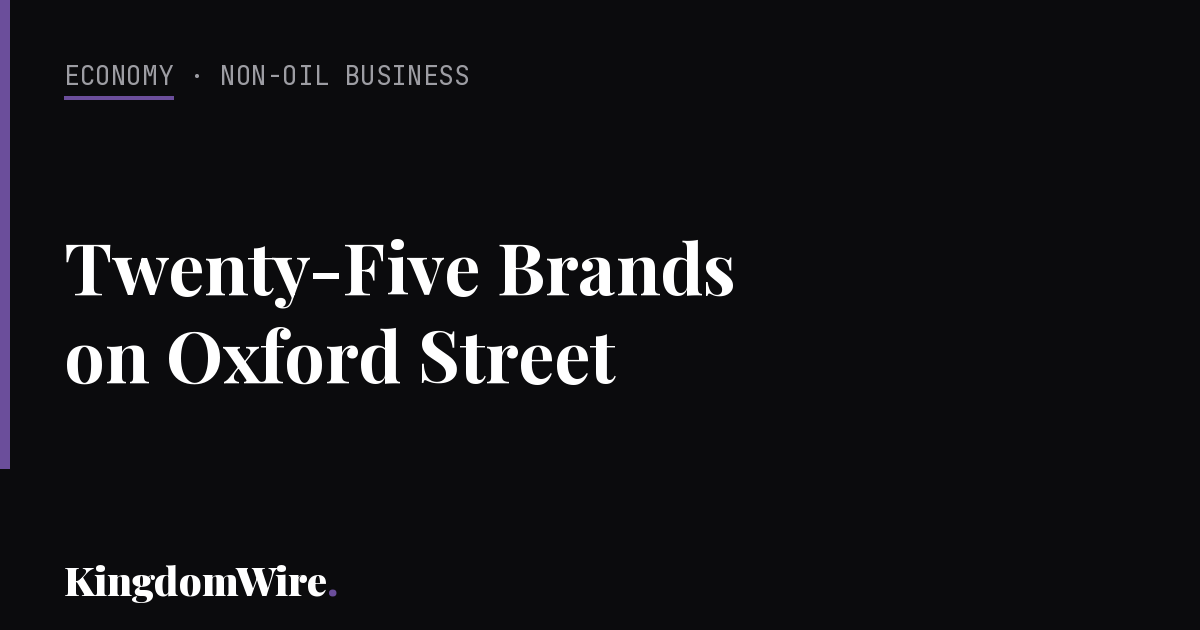
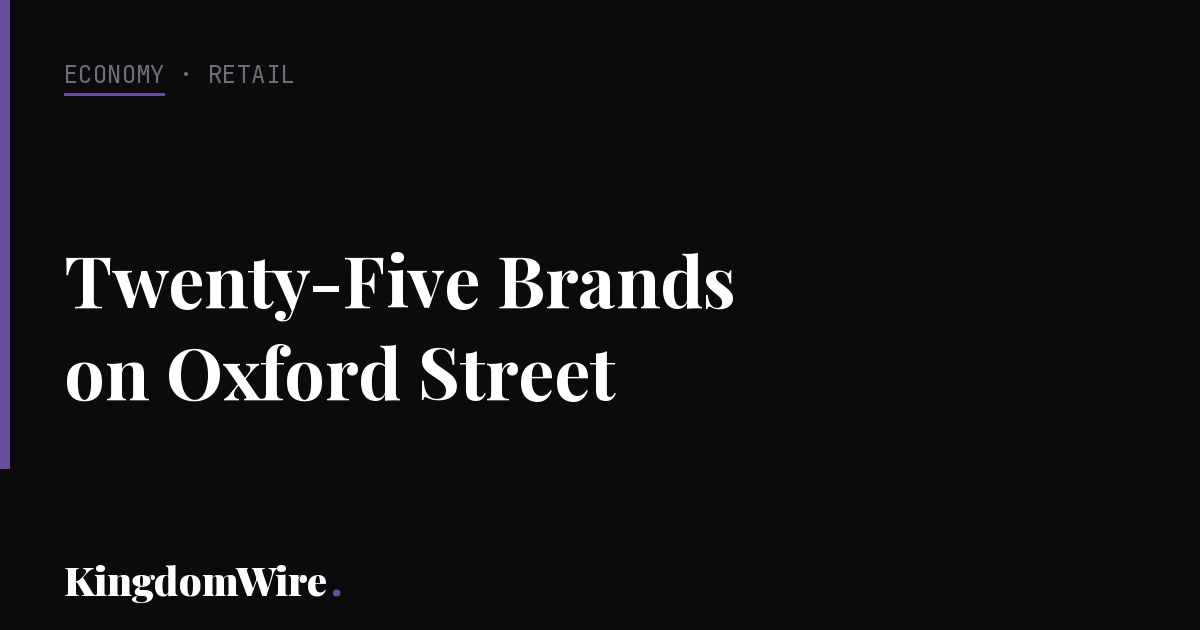
Relabel Non-Oil Business category to Retail site-wide (publisher directive)
Internal taxonomy must never appear as public labels; sector names only.

Claude-Session: https://claude.ai/code/session_012TaS8Nojo1XzNuioftCSb9

Changed region(s): [[0.0308, 0.3619, 0.6167, 0.6333], [0.0617, 0.0905, 0.4008, 0.181]]

diff --git a/economy.html b/economy.html
@@ -211,7 +211,7 @@ img { display: block; width: 100%; }
     <h1 class="section-page-title">Economy</h1>
     <p class="section-page-desc">Saudi economic developments, investment, Vision 2030 progress, and private sector news.</p>
   </div>
-  <div class="article-list"><a href="selfridges-milaf.html" style="text-decoration:none;display:block"><div class="article-list-item"><div class="ali-art"><img src="assets/thumb/culture.jpg" alt=""/></div><div><div class="ali-cat">Economy · Non-Oil Business</div><div class="ali-title">Twenty-Five Brands on Oxford Street</div><p class="ali-deck">A PIF company has placed more than 25 Saudi brands inside Selfridges for six weeks. The showcase tests which Saudi consumer products can hold a foreign shelf at full price.</p><div class="ali-meta">31 Jul 2026 · 4 min</div></div><div class="ali-date">31 Jul 2026</div></div></a><a href="jubail-waste.html" style="text-decoration:none;display:block"><div class="article-list-item"><div class="ali-art"><img src="assets/thumb/environment.jpg" alt=""/></div><div><div class="ali-cat">Economy · Industry</div><div class="ali-title">Jubail Closes the Loop</div><p class="ali-deck">Veolia's Tahwil plant treats up to 121,000 tonnes of hazardous waste a year in PlasChem Park and returns the heat as steam. Disposal capacity reads as an environmental story and functions as industrial recruitment.</p><div class="ali-meta">31 Jul 2026 · 4 min</div></div><div class="ali-date">31 Jul 2026</div></div></a><a href="asir-grape-farms.html" style="text-decoration:none;display:block"><div class="article-list-item"><div class="ali-art"><img src="assets/thumb/asir.jpg" alt=""/></div><div><div class="ali-cat">Economy · Agriculture</div><div class="ali-title">The Vineyards of Asir</div><p class="ali-deck">More than 500 farms and 1,000 tonnes a year: the production system behind the highland grape harvest.</p><div class="ali-meta">29 Jul 2026 · 4 min</div></div><div class="ali-date">29 Jul 2026</div></div></a><a href="hormuz-rejection.html" style="text-decoration:none;display:block"><div class="article-list-item"><div class="ali-art"><img src="assets/thumb/markets.jpg" alt=""/></div><div><div class="ali-cat">Economy · Markets</div><div class="ali-title">The Discount Lasted Three Sessions</div><p class="ali-deck">Brent recovered most of a 14 percent slide within hours of Tehran ruling out the Omani plan for Hormuz. For the Kingdom, the week's numbers land in three ledgers: the price of its crude, the insurability of its shipping, and a repair date at Jizan.</p><div class="ali-meta">29 Jul 2026 · 4 min</div></div><div class="ali-date">29 Jul 2026</div></div></a><a href="hormuz-fees.html" style="text-decoration:none;display:block"><div class="article-list-item"><div class="ali-art"><img src="assets/thumb/maritime.jpg" alt=""/></div><div><div class="ali-cat">Economy · Diplomacy</div><div class="ali-title">Voluntary by Design</div><p class="ali-deck">Oman presents Iran with a Gulf-backed plan to reopen Hormuz under joint management, funded by voluntary contributions on the Malacca model. A voluntary fee can be insured. A toll cannot.</p><div class="ali-meta">28 Jul 2026 · 5 min</div></div><div class="ali-date">28 Jul 2026</div></div></a><a href="price-and-passage.html" style="text-decoration:none;display:block"><div class="article-list-item"><div class="ali-art"><img src="assets/thumb/markets.jpg" alt=""/></div><div><div class="ali-cat">Economy · Markets</div><div class="ali-title">Cheaper Barrel, Emptier Corridor</div><p class="ali-deck">Brent fell as much as 7 percent as the US-Iran pause held, while eleven vessels moved through Bab el-Mandeb, the fewest in months. The futures market is pricing the diplomacy. The water is still pricing the war.</p><div class="ali-meta">27 Jul 2026 · 5 min</div></div><div class="ali-date">27 Jul 2026</div></div></a><a href="saudi-touchpoints.html" style="text-decoration:none;display:block"><div class="article-list-item"><div class="ali-art"><img src="assets/thumb/maritime.jpg" alt=""/></div><div><div class="ali-cat">Economy · Markets</div><div class="ali-title">The Exclusion Travels With the Ship</div><p class="ali-deck">Lloyd's market underwriters are moving from pricing Saudi voyages to excluding them. The touchpoint standard reaches further than a missile can fly.</p><div class="ali-meta">26 Jul 2026 · 4 min</div></div><div class="ali-date">26 Jul 2026</div></div></a><a href="red-sea-insurance.html" style="text-decoration:none;display:block"><div class="article-list-item"><div class="ali-art"><img src="assets/thumb/markets.jpg" alt=""/></div><div><div class="ali-cat">Economy · Markets</div><div class="ali-title">The Blockade Has a Price List</div><p class="ali-deck">War risk premiums run from 0.1 percent at Yanbu to 3 percent off Jizan. Underwriters have priced a partial blockade.</p><div class="ali-meta">24 Jul 2026 · 4 min</div></div><div class="ali-date">24 Jul 2026</div></div></a><a href="riyadh-air-fleet.html" style="text-decoration:none;display:block"><div class="article-list-item"><div class="ali-art"><img src="assets/thumb/aviation.jpg" alt=""/></div><div><div class="ali-cat">Economy · Aviation</div><div class="ali-title">Riyadh Air Adds 34 Boeing and Airbus Aircraft to Its Fleet Plan</div><p class="ali-deck">The hard commitment in aviation, made through a regional conflict.</p><div class="ali-meta">20 Jul 2026</div></div><div class="ali-date">20 Jul 2026</div></div></a><a href="national-parks-investment.html" style="text-decoration:none;display:block"><div class="article-list-item"><div class="ali-art"><img src="assets/thumb/tourism.jpg" alt=""/></div><div><div class="ali-cat">Economy · Tourism</div><div class="ali-title">Saudi Arabia Opens National Parks to Private Investment</div><p class="ali-deck">Eco-tourism and conservation, on the state-defines, private-operates model.</p><div class="ali-meta">20 Jul 2026</div></div><div class="ali-date">20 Jul 2026</div></div></a><a href="foreign-inflows.html" style="text-decoration:none;display:block"><div class="article-list-item"><div class="ali-art"><img src="assets/thumb/markets.jpg" alt=""/></div><div><div class="ali-cat">Economy · Markets</div><div class="ali-title">Foreign Investors Direct $1.6 Billion into Saudi Stocks</div><p class="ali-deck">The only GCC market with net foreign buying in the second quarter of 2026.</p><div class="ali-meta">19 Jul 2026</div></div><div class="ali-date">19 Jul 2026</div></div></a><a href="real-estate-transactions.html" style="text-decoration:none;display:block"><div class="article-list-item"><div class="ali-art"><img src="assets/thumb/infrastructure.jpg" alt=""/></div><div><div class="ali-cat">Economy · Real Estate</div><div class="ali-title">Saudi Real Estate Transactions Reach SR1.6 Trillion in Three Years</div><p class="ali-deck">117,691 licensed brokers and 1.11 million recorded contracts since the Brokerage Law.</p><div class="ali-meta">19 Jul 2026</div></div><div class="ali-date">19 Jul 2026</div></div></a><a href="homeownership-index.html" style="text-decoration:none;display:block"><div class="article-list-item"><div class="ali-art"><img src="assets/thumb/housing.jpg" alt=""/></div><div><div class="ali-cat">Economy · Housing</div><div class="ali-title">First National Homeownership Readiness Index Announced</div><p class="ali-deck">A quarterly measure of the demand side of the housing program.</p><div class="ali-meta">19 Jul 2026</div></div><div class="ali-date">19 Jul 2026</div></div></a><a href="fitch-a-plus.html" style="text-decoration:none;display:block">
+  <div class="article-list"><a href="selfridges-milaf.html" style="text-decoration:none;display:block"><div class="article-list-item"><div class="ali-art"><img src="assets/thumb/culture.jpg" alt=""/></div><div><div class="ali-cat">Economy · Retail</div><div class="ali-title">Twenty-Five Brands on Oxford Street</div><p class="ali-deck">A PIF company has placed more than 25 Saudi brands inside Selfridges for six weeks. The showcase tests which Saudi consumer products can hold a foreign shelf at full price.</p><div class="ali-meta">31 Jul 2026 · 4 min</div></div><div class="ali-date">31 Jul 2026</div></div></a><a href="jubail-waste.html" style="text-decoration:none;display:block"><div class="article-list-item"><div class="ali-art"><img src="assets/thumb/environment.jpg" alt=""/></div><div><div class="ali-cat">Economy · Industry</div><div class="ali-title">Jubail Closes the Loop</div><p class="ali-deck">Veolia's Tahwil plant treats up to 121,000 tonnes of hazardous waste a year in PlasChem Park and returns the heat as steam. Disposal capacity reads as an environmental story and functions as industrial recruitment.</p><div class="ali-meta">31 Jul 2026 · 4 min</div></div><div class="ali-date">31 Jul 2026</div></div></a><a href="asir-grape-farms.html" style="text-decoration:none;display:block"><div class="article-list-item"><div class="ali-art"><img src="assets/thumb/asir.jpg" alt=""/></div><div><div class="ali-cat">Economy · Agriculture</div><div class="ali-title">The Vineyards of Asir</div><p class="ali-deck">More than 500 farms and 1,000 tonnes a year: the production system behind the highland grape harvest.</p><div class="ali-meta">29 Jul 2026 · 4 min</div></div><div class="ali-date">29 Jul 2026</div></div></a><a href="hormuz-rejection.html" style="text-decoration:none;display:block"><div class="article-list-item"><div class="ali-art"><img src="assets/thumb/markets.jpg" alt=""/></div><div><div class="ali-cat">Economy · Markets</div><div class="ali-title">The Discount Lasted Three Sessions</div><p class="ali-deck">Brent recovered most of a 14 percent slide within hours of Tehran ruling out the Omani plan for Hormuz. For the Kingdom, the week's numbers land in three ledgers: the price of its crude, the insurability of its shipping, and a repair date at Jizan.</p><div class="ali-meta">29 Jul 2026 · 4 min</div></div><div class="ali-date">29 Jul 2026</div></div></a><a href="hormuz-fees.html" style="text-decoration:none;display:block"><div class="article-list-item"><div class="ali-art"><img src="assets/thumb/maritime.jpg" alt=""/></div><div><div class="ali-cat">Economy · Diplomacy</div><div class="ali-title">Voluntary by Design</div><p class="ali-deck">Oman presents Iran with a Gulf-backed plan to reopen Hormuz under joint management, funded by voluntary contributions on the Malacca model. A voluntary fee can be insured. A toll cannot.</p><div class="ali-meta">28 Jul 2026 · 5 min</div></div><div class="ali-date">28 Jul 2026</div></div></a><a href="price-and-passage.html" style="text-decoration:none;display:block"><div class="article-list-item"><div class="ali-art"><img src="assets/thumb/markets.jpg" alt=""/></div><div><div class="ali-cat">Economy · Markets</div><div class="ali-title">Cheaper Barrel, Emptier Corridor</div><p class="ali-deck">Brent fell as much as 7 percent as the US-Iran pause held, while eleven vessels moved through Bab el-Mandeb, the fewest in months. The futures market is pricing the diplomacy. The water is still pricing the war.</p><div class="ali-meta">27 Jul 2026 · 5 min</div></div><div class="ali-date">27 Jul 2026</div></div></a><a href="saudi-touchpoints.html" style="text-decoration:none;display:block"><div class="article-list-item"><div class="ali-art"><img src="assets/thumb/maritime.jpg" alt=""/></div><div><div class="ali-cat">Economy · Markets</div><div class="ali-title">The Exclusion Travels With the Ship</div><p class="ali-deck">Lloyd's market underwriters are moving from pricing Saudi voyages to excluding them. The touchpoint standard reaches further than a missile can fly.</p><div class="ali-meta">26 Jul 2026 · 4 min</div></div><div class="ali-date">26 Jul 2026</div></div></a><a href="red-sea-insurance.html" style="text-decoration:none;display:block"><div class="article-list-item"><div class="ali-art"><img src="assets/thumb/markets.jpg" alt=""/></div><div><div class="ali-cat">Economy · Markets</div><div class="ali-title">The Blockade Has a Price List</div><p class="ali-deck">War risk premiums run from 0.1 percent at Yanbu to 3 percent off Jizan. Underwriters have priced a partial blockade.</p><div class="ali-meta">24 Jul 2026 · 4 min</div></div><div class="ali-date">24 Jul 2026</div></div></a><a href="riyadh-air-fleet.html" style="text-decoration:none;display:block"><div class="article-list-item"><div class="ali-art"><img src="assets/thumb/aviation.jpg" alt=""/></div><div><div class="ali-cat">Economy · Aviation</div><div class="ali-title">Riyadh Air Adds 34 Boeing and Airbus Aircraft to Its Fleet Plan</div><p class="ali-deck">The hard commitment in aviation, made through a regional conflict.</p><div class="ali-meta">20 Jul 2026</div></div><div class="ali-date">20 Jul 2026</div></div></a><a href="national-parks-investment.html" style="text-decoration:none;display:block"><div class="article-list-item"><div class="ali-art"><img src="assets/thumb/tourism.jpg" alt=""/></div><div><div class="ali-cat">Economy · Tourism</div><div class="ali-title">Saudi Arabia Opens National Parks to Private Investment</div><p class="ali-deck">Eco-tourism and conservation, on the state-defines, private-operates model.</p><div class="ali-meta">20 Jul 2026</div></div><div class="ali-date">20 Jul 2026</div></div></a><a href="foreign-inflows.html" style="text-decoration:none;display:block"><div class="article-list-item"><div class="ali-art"><img src="assets/thumb/markets.jpg" alt=""/></div><div><div class="ali-cat">Economy · Markets</div><div class="ali-title">Foreign Investors Direct $1.6 Billion into Saudi Stocks</div><p class="ali-deck">The only GCC market with net foreign buying in the second quarter of 2026.</p><div class="ali-meta">19 Jul 2026</div></div><div class="ali-date">19 Jul 2026</div></div></a><a href="real-estate-transactions.html" style="text-decoration:none;display:block"><div class="article-list-item"><div class="ali-art"><img src="assets/thumb/infrastructure.jpg" alt=""/></div><div><div class="ali-cat">Economy · Real Estate</div><div class="ali-title">Saudi Real Estate Transactions Reach SR1.6 Trillion in Three Years</div><p class="ali-deck">117,691 licensed brokers and 1.11 million recorded contracts since the Brokerage Law.</p><div class="ali-meta">19 Jul 2026</div></div><div class="ali-date">19 Jul 2026</div></div></a><a href="homeownership-index.html" style="text-decoration:none;display:block"><div class="article-list-item"><div class="ali-art"><img src="assets/thumb/housing.jpg" alt=""/></div><div><div class="ali-cat">Economy · Housing</div><div class="ali-title">First National Homeownership Readiness Index Announced</div><p class="ali-deck">A quarterly measure of the demand side of the housing program.</p><div class="ali-meta">19 Jul 2026</div></div><div class="ali-date">19 Jul 2026</div></div></a><a href="fitch-a-plus.html" style="text-decoration:none;display:block">
       <div class="article-list-item"><div class="ali-art"><img src="assets/thumb/finance.jpg" alt=""/></div>
         <div>
           <div class="ali-cat">Economy · Sovereign Ratings</div>

diff --git a/selfridges-milaf.html b/selfridges-milaf.html
@@ -3,9 +3,9 @@
 <head>
   <meta charset="UTF-8"/><meta name="viewport" content="width=device-width,initial-scale=1.0"/>
   <title>Twenty-Five Brands on Oxford Street | KingdomWire</title>
-  <meta name="description" content="A PIF company has placed more than 25 Saudi brands inside Selfridges for six weeks. The showcase is a screening mechanism: it tests which Saudi consumer products can hold a foreign shelf at full price."/>
+  <meta name="description" content="Economy · Retail"/>
   <meta property="og:title" content="The Second Sortie Was Diplomatic | KingdomWire"/>
-  <meta property="og:description" content="A PIF company has placed more than 25 Saudi brands inside Selfridges for six weeks. The showcase is a screening mechanism: it tests which Saudi consumer products can hold a foreign shelf at full price."/>
+  <meta property="og:description" content="Economy · Retail"/>
   <meta property="og:type" content="article"/>
   <meta property="og:url" content="https://kingdomwire.net/selfridges-milaf.html"/>
   <meta property="og:site_name" content="KingdomWire"/>
@@ -199,5 +199,5 @@ img { display: block; width: 100%; }
 </head>
 <body>
 <header class="masthead"><div class="masthead-inner"><div class="masthead-top"><div class="logo"><div class="logo-wordmark"><a href="index.html">KingdomWire<span class="logo-dot">.</span></a></div><div class="logo-rule"><div class="logo-rule-line"></div><div class="logo-tagline">Saudi Arabia · In Depth · In English</div><div class="logo-rule-line"></div></div></div></div><nav class="nav"><div class="nav-inner"><a href="index.html">Latest</a><a href="policy.html">Policy</a><a href="economy.html" class="active">Economy</a><a href="society.html">Society</a><a href="on-the-record.html">On the Record</a><a href="analysis.html">Analysis</a><a href="archive.html">Archive</a><a href="about.html">About</a><a href="search.html">Search</a></div></nav></div></header>
-<main><div class="container" style="padding-top:40px;padding-bottom:60px"><div class="article-layout"><article><header class="article-header"><div class="article-eyebrow">Economy &middot; Non-Oil Business</div><h1 class="article-title">Twenty-Five Brands on Oxford Street</h1><p class="article-deck">Milaf Global, a Public Investment Fund company, has placed more than 25 Saudi brands inside Selfridges in London for six weeks. The sales matter less than the selections: the showcase tests which Saudi consumer products can hold a foreign shelf at full price.</p><div class="article-meta"><span class="tag">Retail</span><span>31 July 2026</span><span>&middot;</span><span>4 min read</span><span>&middot;</span><span>KingdomWire</span></div><figure class="article-art" style="margin:26px 0 0"><img src="assets/img/culture.jpg" alt="" style="height:230px;object-fit:cover;border:1px solid var(--rule);border-top:3px solid var(--accent)"/><figcaption style="display:flex;justify-content:space-between;gap:12px;padding:7px 2px 0;font-family:'JetBrains Mono',monospace;font-size:.52rem;letter-spacing:.08em;color:var(--lg);text-transform:uppercase"><span style="color:var(--accent)">&#9670; Non-Oil Business &middot; London</span><span>Photo: xiquinhosilva &middot; CC BY 2.0 &middot; Wikimedia</span></figcaption></figure></header><div class="article-body"><p>For six weeks, the Corner Shop window at 400 Oxford Street belongs to Saudi brands. "Saudi: Sky's The Limit," which opened 27 July and runs to 5 September, places more than 25 companies inside Selfridges, the London department store where a window is an audition. Milaf Global, the Public Investment Fund company behind the showcase, selected the participants against four criteria: product quality, brand distinctiveness, readiness for international expansion, and the ability to represent Saudi identity abroad. That last pairing, export readiness and identity, is the actual experiment.</p><p>The roster runs across categories rather than concentrating in one: the streetwear label 1886, Artfeena in homeware, Assaf fragrances, the jeweller Jeed, Kayanee in wellness, the baker L&acirc;m, with food, beauty and lifestyle names alongside. Bandar Al-Qahtani, Milaf Global's chief executive, framed the venture in portfolio terms: "Our success is not measured only by the growth of our group companies, but also by the opportunities we create for our private-sector partners and Saudi entrepreneurs." Judd Crane, Selfridges' executive buying and brand director, said the collaboration lets customers "discover Saudi brands that reflect creativity, quality and innovation."</p><h2>What the Fund Is Testing</h2><p>The Public Investment Fund's consumer ambitions are usually discussed at giga-project scale. This is the opposite instrument: a controlled, six-week retail test in which the fund functions less like an investor than like a trading house, aggregating small brands that could not individually win a London wholesale account and carrying them into one under its own negotiating weight. The precedent is direct. Selfridges hosted the Saudi 100 fashion pop-up in June 2025; this year's edition is larger, longer and broader than fashion, which is what a pipeline looks like when the first test clears.</p><p>The commercial information runs in both directions. For the brands, a Selfridges buyer's reorder decision in September is a judgment no domestic market signal can substitute for. For Milaf, six weeks of till data from Oxford Street is a screening mechanism: it identifies which Saudi consumer products can hold a shelf abroad at full price, before larger capital is committed to distribution. The showcase's sales matter less than its selections. A fund that learns to pick export-grade consumer brands has acquired a capability the Kingdom's non-oil growth targets quietly depend on, because commodity exports scale with capacity while brand exports scale with judgment.</p><h2>Two Calendars</h2><p>The launch week says something about how the Kingdom is running its calendar. The same days that brought chiefs of staff to Riyadh for a maritime security meeting saw Saudi confectioners and perfumers setting up displays in London. The commercial program is proceeding on its own schedule, neither accelerated for effect nor paused for events. For the small brands involved, most of them employing dozens rather than thousands, the stakes are not symbolic at all: a converted wholesale account at a store like Selfridges typically outlasts any single season's politics.</p><p>The test worth tracking comes after 5 September, when the displays come down. Pop-ups are rented visibility; wholesale accounts are earned shelf. If even a handful of the 25 convert to standing Selfridges listings, or to the European accounts that watch Selfridges to decide what to stock, Milaf will have built a repeatable export channel rather than a memorable window. Al-Qahtani has already said he hopes the initiative leads to similar partnerships elsewhere. The next city Milaf books will show whether London was a showcase or a system.</p></div></article><aside class="article-sidebar"><div class="article-sidebar-label">Related Stories</div><div class="related-item"><div class="related-cat">Economy</div><div class="related-title"><a href="asir-grape-farms.html">The Vineyards of Asir</a></div></div><div class="related-item"><div class="related-cat">Economy</div><div class="related-title"><a href="pif-strategy-2026.html">PIF Enters New Phase with 2026-2030 Strategy</a></div></div><div class="related-item"><div class="related-cat">Society</div><div class="related-title"><a href="riyadh-heritage-register.html">The Capital Enters Its Own Archive</a></div></div></aside></div></div></main>
+<main><div class="container" style="padding-top:40px;padding-bottom:60px"><div class="article-layout"><article><header class="article-header"><div class="article-eyebrow">Economy &middot; Retail</div><h1 class="article-title">Twenty-Five Brands on Oxford Street</h1><p class="article-deck">Milaf Global, a Public Investment Fund company, has placed more than 25 Saudi brands inside Selfridges in London for six weeks. The sales matter less than the selections: the showcase tests which Saudi consumer products can hold a foreign shelf at full price.</p><div class="article-meta"><span class="tag">Retail</span><span>31 July 2026</span><span>&middot;</span><span>4 min read</span><span>&middot;</span><span>KingdomWire</span></div><figure class="article-art" style="margin:26px 0 0"><img src="assets/img/culture.jpg" alt="" style="height:230px;object-fit:cover;border:1px solid var(--rule);border-top:3px solid var(--accent)"/><figcaption style="display:flex;justify-content:space-between;gap:12px;padding:7px 2px 0;font-family:'JetBrains Mono',monospace;font-size:.52rem;letter-spacing:.08em;color:var(--lg);text-transform:uppercase"><span style="color:var(--accent)">&#9670; Retail &middot; London</span><span>Photo: xiquinhosilva &middot; CC BY 2.0 &middot; Wikimedia</span></figcaption></figure></header><div class="article-body"><p>For six weeks, the Corner Shop window at 400 Oxford Street belongs to Saudi brands. "Saudi: Sky's The Limit," which opened 27 July and runs to 5 September, places more than 25 companies inside Selfridges, the London department store where a window is an audition. Milaf Global, the Public Investment Fund company behind the showcase, selected the participants against four criteria: product quality, brand distinctiveness, readiness for international expansion, and the ability to represent Saudi identity abroad. That last pairing, export readiness and identity, is the actual experiment.</p><p>The roster runs across categories rather than concentrating in one: the streetwear label 1886, Artfeena in homeware, Assaf fragrances, the jeweller Jeed, Kayanee in wellness, the baker L&acirc;m, with food, beauty and lifestyle names alongside. Bandar Al-Qahtani, Milaf Global's chief executive, framed the venture in portfolio terms: "Our success is not measured only by the growth of our group companies, but also by the opportunities we create for our private-sector partners and Saudi entrepreneurs." Judd Crane, Selfridges' executive buying and brand director, said the collaboration lets customers "discover Saudi brands that reflect creativity, quality and innovation."</p><h2>What the Fund Is Testing</h2><p>The Public Investment Fund's consumer ambitions are usually discussed at giga-project scale. This is the opposite instrument: a controlled, six-week retail test in which the fund functions less like an investor than like a trading house, aggregating small brands that could not individually win a London wholesale account and carrying them into one under its own negotiating weight. The precedent is direct. Selfridges hosted the Saudi 100 fashion pop-up in June 2025; this year's edition is larger, longer and broader than fashion, which is what a pipeline looks like when the first test clears.</p><p>The commercial information runs in both directions. For the brands, a Selfridges buyer's reorder decision in September is a judgment no domestic market signal can substitute for. For Milaf, six weeks of till data from Oxford Street is a screening mechanism: it identifies which Saudi consumer products can hold a shelf abroad at full price, before larger capital is committed to distribution. The showcase's sales matter less than its selections. A fund that learns to pick export-grade consumer brands has acquired a capability the Kingdom's diversification targets quietly depend on, because commodity exports scale with capacity while brand exports scale with judgment.</p><h2>Two Calendars</h2><p>The launch week says something about how the Kingdom is running its calendar. The same days that brought chiefs of staff to Riyadh for a maritime security meeting saw Saudi confectioners and perfumers setting up displays in London. The commercial program is proceeding on its own schedule, neither accelerated for effect nor paused for events. For the small brands involved, most of them employing dozens rather than thousands, the stakes are not symbolic at all: a converted wholesale account at a store like Selfridges typically outlasts any single season's politics.</p><p>The test worth tracking comes after 5 September, when the displays come down. Pop-ups are rented visibility; wholesale accounts are earned shelf. If even a handful of the 25 convert to standing Selfridges listings, or to the European accounts that watch Selfridges to decide what to stock, Milaf will have built a repeatable export channel rather than a memorable window. Al-Qahtani has already said he hopes the initiative leads to similar partnerships elsewhere. The next city Milaf books will show whether London was a showcase or a system.</p></div></article><aside class="article-sidebar"><div class="article-sidebar-label">Related Stories</div><div class="related-item"><div class="related-cat">Economy</div><div class="related-title"><a href="asir-grape-farms.html">The Vineyards of Asir</a></div></div><div class="related-item"><div class="related-cat">Economy</div><div class="related-title"><a href="pif-strategy-2026.html">PIF Enters New Phase with 2026-2030 Strategy</a></div></div><div class="related-item"><div class="related-cat">Society</div><div class="related-title"><a href="riyadh-heritage-register.html">The Capital Enters Its Own Archive</a></div></div></aside></div></div></main>
 <footer class="site-footer"><div class="container"><div class="footer-grid"><div><div class="footer-logo">KingdomWire<span class="logo-dot">.</span></div><p class="footer-desc">Saudi Arabia, in depth, in English.</p></div><div class="footer-col"><div class="footer-col-title">Sections</div><a href="index.html">Latest</a><a href="policy.html">Policy</a><a href="economy.html" class="active">Economy</a><a href="society.html">Society</a><a href="on-the-record.html">On the Record</a><a href="analysis.html">Analysis</a><a href="archive.html">Archive</a></div><div class="footer-col"><div class="footer-col-title">Publication</div><a href="about.html">About</a><a href="mailto:info@kingdomwire.net">info@kingdomwire.net</a></div><div class="footer-col"><div class="footer-col-title">Follow</div><a href="https://x.com/KingdomWire" target="_blank" rel="noopener">X / Twitter</a></div></div><div class="footer-bottom"><div class="footer-copy">2026 KINGDOMWIRE · KINGDOMWIRE.NET · ALL RIGHTS RESERVED</div></div></div></footer><script data-goatcounter="https://kingdomwire.goatcounter.com/count" async src="//gc.zgo.at/count.js"></script></body></html>

diff --git a/archive.html b/archive.html
@@ -214,7 +214,7 @@ img { display: block; width: 100%; }
   <h2 class="archive-month">July 2026</h2>
 <a href="asir-grape-farms.html" style="display:block"><div class="archive-item"><div class="archive-date">29 Jul</div><div class="archive-cat">Economy</div><div class="archive-title">The Vineyards of Asir</div></div></a>
 <a href="maritime-coalition.html" style="display:block"><div class="archive-item"><div class="archive-date">31 Jul 2026</div><div><div class="archive-cat">Policy · Defense</div><div class="archive-title">Fourteen Flags, One Headquarters</div></div></div></a>
-<a href="selfridges-milaf.html" style="display:block"><div class="archive-item"><div class="archive-date">31 Jul 2026</div><div><div class="archive-cat">Economy · Non-Oil Business</div><div class="archive-title">Twenty-Five Brands on Oxford Street</div></div></div></a>
+<a href="selfridges-milaf.html" style="display:block"><div class="archive-item"><div class="archive-date">31 Jul 2026</div><div><div class="archive-cat">Economy · Retail</div><div class="archive-title">Twenty-Five Brands on Oxford Street</div></div></div></a>
 <a href="jubail-waste.html" style="display:block"><div class="archive-item"><div class="archive-date">31 Jul 2026</div><div><div class="archive-cat">Economy · Industry</div><div class="archive-title">Jubail Closes the Loop</div></div></div></a>
 <a href="washington-visit.html" style="display:block"><div class="archive-item"><div class="archive-date">30 Jul 2026</div><div><div class="archive-cat">Policy · Diplomacy</div><div class="archive-title">The Second Sortie Was Diplomatic</div></div></div></a>
 <a href="drones-return.html" style="display:block"><div class="archive-item"><div class="archive-date">30 Jul 2026</div><div><div class="archive-cat">Policy · Defense</div><div class="archive-title">The Drones Came Back First</div></div></div></a>

diff --git a/index.html b/index.html
@@ -323,7 +323,7 @@ img { display: block; width: 100%; }
       <div class="sidebar-label">Also Today</div>
       
       <div class="sidebar-item">
-        <div class="sidebar-cat">Economy · Non-Oil Business</div>
+        <div class="sidebar-cat">Economy · Retail</div>
         <div class="sidebar-title"><a href="selfridges-milaf.html">Twenty-Five Brands on Oxford Street</a></div>
         <div class="sidebar-deck">A PIF company has placed more than 25 Saudi brands inside Selfridges for six weeks. The sales matter less than the selections.</div>
       </div>
